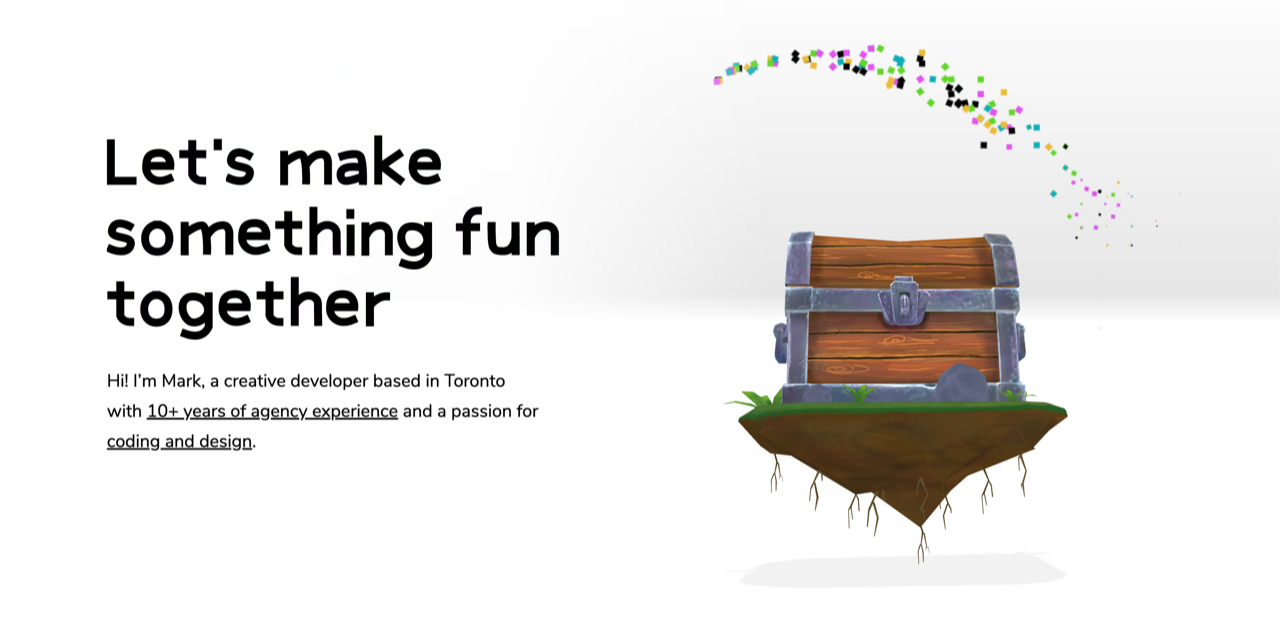
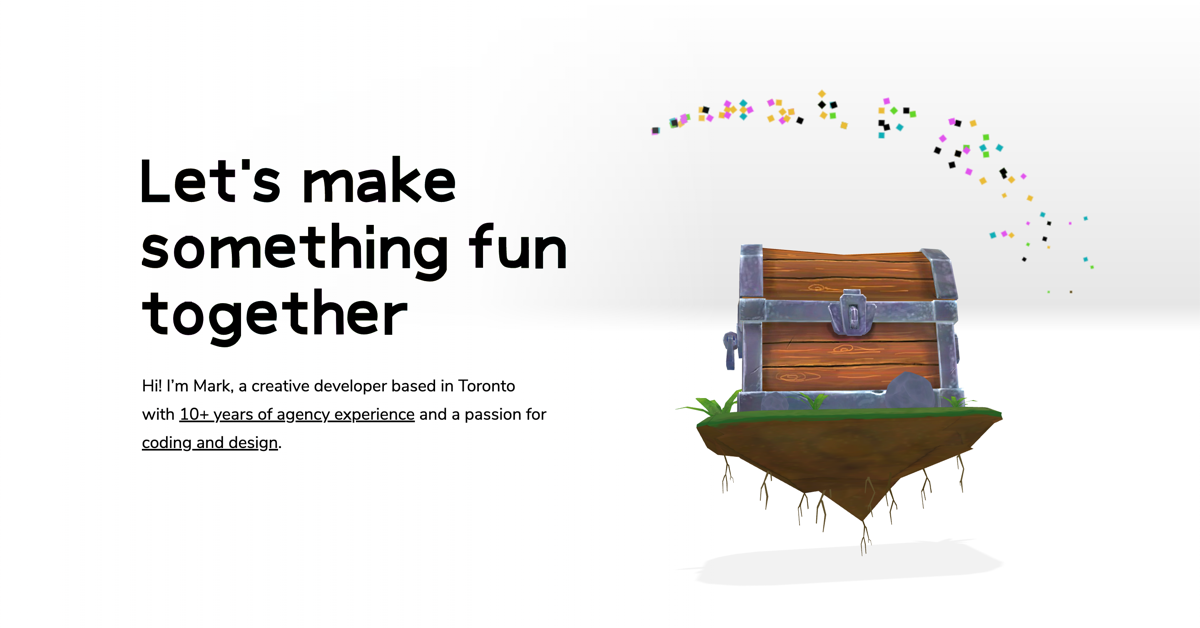
adjusted home-copy spacing and updated screenshot

diff --git a/dist/app.css b/dist/app.css
@@ -1,1 +1,1 @@
-*,:after,:before{box-sizing:border-box}img{max-width:100%}body,html{margin:0}body.scene--intro,body.scene--loading,html.scene--intro,html.scene--loading{overflow:hidden}.container{max-width:1150px;padding:0 100px;margin:0 auto}@media (max-width:768px){.container{padding:0 60px}}@media (max-width:500px){.container{padding:0 35px}}.grid{display:flex;justify-content:space-between}.grid>:first-child{width:40%}.grid>:last-child{width:60%}@media (max-width:960px){.grid{flex-direction:column}.grid>:first-child,.grid>:last-child{width:100%}}.hide{display:none!important}body,p{font-family:Nunito Sans,sans-serif;font-size:20px;font-weight:400;line-height:34px}@media (max-width:600px){body,p{font-size:16px;line-height:28px}}p{margin-bottom:0}a{text-decoration:underline;color:#000;transition:color .1s ease-in-out}a:hover{color:#1292ff}.badge-label,.h1,.h2,.h3,.h4,.h5,.h6,.hero-title,.home-title,h1,h2,h3,h4,h5,h6,p{margin-top:0}.h1,.hero-title,h1{font-size:300px;font-weight:900;line-height:0}@media (max-width:1150px){.h1,.hero-title,h1{font-size:200px}}@media (max-width:768px){.h1,.hero-title,h1{font-size:175px}}@media (max-width:550px){.h1,.hero-title,h1{font-size:120px}}@media (max-width:400px){.h1,.hero-title,h1{font-size:80px}}.h2,.home-title,h2{font-size:48px;font-weight:900;line-height:54px;margin-bottom:21px}.h3,h3{font-size:36px;font-weight:800;line-height:44px;margin-bottom:21px}@media (max-width:768px){.h3,h3{display:block;font-size:28px;line-height:37px}}@media (max-width:500px){.h3,h3{font-size:24px;line-height:32px}}.badge-label,.h4,h4{font-size:12px;font-weight:400;letter-spacing:2.86px;text-transform:uppercase;margin-bottom:-5px}@media (max-width:768px){.badge-label,.h4,h4{display:block;font-size:10px;letter-spacing:2.38px}}.ecobee .hero{display:flex}.ecobee .hero-chest{position:relative;transform:translateY(-50%);left:0;z-index:3;width:50%}.ecobee .hero-horizon{opacity:0}.home{width:50%;color:#000;align-items:center;z-index:2}.home,.home-wrapper{display:flex;position:relative}.home-wrapper{max-width:1400px;padding:0 100px;margin:0 auto}.home-overlay{width:100%;height:100%;background-image:linear-gradient(90deg,#fff 5%,hsla(0,0%,100%,.9) 40%,hsla(0,0%,100%,0) 60%,hsla(0,0%,100%,0));position:absolute;top:0;left:0}.home-title{font-size:70px;line-height:0}.home-copy{position:relative;padding-bottom:60px;padding-right:50px}.home-text{opacity:0;max-width:490px}.home-logos-trigger{display:inline-block;user-select:none}.home-logos img{position:fixed;pointer-events:none;top:0;left:0;height:60px;margin-left:-30px;margin-top:-30px;opacity:0;z-index:3}@keyframes pulse{0%{transform:scaleX(1)}25%{transform:scale3d(1.05,1.05,1.05)}to{transform:scaleX(1)}}.pulse{animation-duration:.2s;-webkit-animation-fill-mode:both;animation-fill-mode:both;animation-name:pulse}.motext{line-height:0}.motext-word{margin-right:.3em;margin-bottom:.3em}.motext-letter--L{margin-right:.02em}@media (max-width:1250px){.home-title{font-size:50px}}@media (max-width:1000px){.ecobee .hero-horizon{height:30%}.ecobee .hero-chest{width:100%;height:60%;position:absolute;top:0;left:0;transform:translateY(-5%)!important}.home-wrapper{flex-direction:column-reverse;align-items:flex-end}.home{width:100%;padding-bottom:100px}.home-copy{padding:0;max-width:700px;text-align:center}.home-copy,.home-text{margin:0 auto}.home-overlay{display:none}}@media (max-width:600px){.home-title{font-size:38px}.home-text{font-size:16px;line-height:24px}.home-wrapper{padding:0}.home{padding:0 40px 100px}}@media (max-width:400px){.home-title{font-size:36px}.home{padding:0 40px 100px}}@media (max-width:320px) and (max-height:568px){.home{padding:0 40px 80px}.home-title{font-size:24px}.home-text{font-size:13px}}.hero{width:100%;height:100vh;position:relative;z-index:2;overflow:hidden}.hero-title{top:35%;transform:translate(-50%,-50%);text-align:center;user-select:none}.hero-particles,.hero-title{position:absolute;left:50%;width:100%}.hero-particles{top:0;transform:translateX(-50%);height:100%}.hero-chest{width:100vw;height:100%;position:absolute;top:50%;left:50%;transform:translate(-50%,-50%);display:flex;align-items:center}.hero-chestCanvas{width:100%!important;height:100%!important;max-height:1000px}@media (max-width:1325px){.hero-chestCanvas{max-height:700px}}.hero-target{position:absolute;top:50%;left:50%;transform:translate(-50%,-50%);height:30%;z-index:2;animation:key .3s infinite alternate}.hero-white{background-color:#fff;height:100vh}.hero-horizon,.hero-white{position:absolute;top:0;left:0;width:100%}.hero-horizon{background-image:linear-gradient(180deg,transparent 0,#000 92%,transparent);opacity:.1;height:50%}.hero-scroll{position:absolute;bottom:50px;left:50%;transform:translate(-50%);width:40px;animation:scroll 2s ease-in-out 0s infinite alternate;cursor:pointer}@keyframes scroll{0%{transform:translate(-50%)}to{transform:translate(-50%,-30%)}}.hero-titleInner{display:block;line-height:normal;clip-path:polygon(0 70%,100% 40%,100% 100%,0 100%);transform:translateY(-25px) skew(0,-4deg);opacity:0;transition:opacity 1s ease-out,transform 1.5s ease-out,clip-path 2s ease-out}.hero-titleInner:last-child{transition-delay:.2s}.hero-title--intro .hero-titleInner{transform:translateY(0) skew(0,0);opacity:1;clip-path:polygon(0 0,100% 0,100% 100%,0 100%)}@media (max-width:1000px){.hero-chest{height:60%}}@media (max-width:768px){.hero-scroll{bottom:80px}}@keyframes key{0%{cursor:url(/assets/key-1.png) 0 0,pointer}25%{cursor:url(/assets/key-2.png) 0 0,pointer}50%{cursor:url(/assets/key-3.png) 0 0,pointer}75%{cursor:url(/assets/key-4.png) 0 0,pointer}to{cursor:url(/assets/key-5.png) 0 0,pointer}}.project-intro{max-width:385px;position:relative;z-index:2}.project-logo{margin-bottom:36px}.project-preview{margin-top:150px;padding-left:50px;position:relative}@media (max-width:960px){.project-preview{margin-top:80px;padding-left:0}}@media (max-width:500px){.project-preview{margin-top:60px}}.project-previewFrame{overflow:hidden;border-width:4px;border-style:solid;background-color:#fff;box-shadow:0 0 100px hsla(0,0%,100%,.8);transform:perspective(1000px) rotateY(10deg);margin:0 auto;position:relative;z-index:2}@media (max-width:960px){.project-previewFrame{max-width:510px;transform:none}}.project-previewFrame img{position:absolute;top:0;left:0;width:100%}.project-previewFrame:before{content:"";display:block;padding-top:65%}.project-previewBackground{content:"";display:block;position:absolute;top:50%;left:50%;transform:translate(-50%,-50%) scale(1.1);width:1000px;height:600px;background-size:cover;background-position:50%;opacity:0;z-index:1;filter:blur(3px)}@media (max-width:960px){.project-previewBackground{transform:translate(-50%,-50%) scale(.7);opacity:1}}.project-previewItem{position:absolute;bottom:0;left:0;z-index:3}@media (max-width:960px){.project-previewItem{display:none}}.card{background:#fff;color:#000;display:flex;box-shadow:0 0 120px rgba(0,0,0,.2);overflow:hidden;position:relative;z-index:2}.card-imageWrapper{position:relative;width:34%}.card-image{position:absolute;top:0;left:0;width:100%;height:100%;object-fit:cover;object-position:center center}.card-content{padding:90px 135px;width:66%}.card-item{margin-bottom:25px}.card-item a{text-decoration:none;animation:none}.card-item a:focus,.card-item a:hover{animation:rainbow 3s ease-in-out infinite alternate}@keyframes rainbow{0%{color:#000}10%{color:#0dafb7}40%{color:#eabc36}70%{color:#e154ed}to{color:#62d628}}.gradient-background{padding:200px 0;background-image:linear-gradient(180deg,hsla(0,0%,100%,0),#fff 90%)}@media (max-width:960px){.gradient-background{padding:100px 0}}@media (max-width:500px){.gradient-background{padding-top:60px}}@media (max-width:960px){.card{flex-direction:column-reverse}.card-imageWrapper{display:none}.card-content{padding:40px;width:100%}}@media (max-width:500px){.card-content{padding:20px 30px}.card-item{margin-bottom:0}}.badges-wrapper{height:166px;position:absolute;top:0;left:0;width:100%;z-index:2;pointer-events:none}.badges{list-style-type:none;margin:0;padding:40px 0;text-align:center}.badges .badge{width:100px;height:75px;display:inline-block;margin:0;position:relative}.badge-label{color:#000;position:absolute;top:100%;left:50%;white-space:nowrap;font-size:9px;line-height:16px;transform:translate(-50%,5px);opacity:0}.section{color:#fff;overflow:hidden}.section-content{position:relative;z-index:5}.section.ecobee{background-color:#5dbe7b}.section.ecobee .hero-target{display:none}.section.ecobee .hero-title{color:#eeff97}.section.ecobee .hero-scroll{fill:#eeff97}.section.ecobee .project-previewBackground{background-image:url(/assets/ecobee-background.png)}.section.ecobee .project-previewFrame{border-color:#42a661}.section.ecobee .project-previewItem{bottom:40px;left:0}.section.audi{background-color:#91251e}.section.audi .hero-title{color:#ffe0c2}.section.audi .hero-scroll{fill:#ffe0c2}.section.audi .project-previewBackground{background-image:url(/assets/audi-background.png)}.section.audi .project-previewFrame{border-color:#671a15}.section.audi .project-previewItem{bottom:20px;left:-20px;width:240px}.section.worldvision{background-color:#2b6596}.section.worldvision .hero-title{color:#5abed7;font-size:260px;line-height:220px}@media (max-width:960px){.section.worldvision .hero-title{font-size:200px;line-height:180px}}@media (max-width:700px){.section.worldvision .hero-title{font-size:160px;line-height:150px}}@media (max-width:550px){.section.worldvision .hero-title{font-size:120px;line-height:110px}}.section.worldvision .hero-titleInner{line-height:inherit}.section.worldvision .hero-scroll{fill:#5abed7}.section.worldvision .project-previewBackground{background-image:url(/assets/worldvision-background.png)}.section.worldvision .project-previewFrame{border-color:#204a6e}.section.worldvision .project-previewItem{bottom:0;left:-20px;width:196px}.section.contact{background-color:#ddaf40}.section.contact .hero-title{color:#fff264}.section.contact .hero-scroll{fill:#fff264}@media (max-width:960px){.section.contact .card-image{object-position:top center}}.section.contact .card-drawing{position:absolute;top:0;left:0;width:100%;height:100%;cursor:url(/assets/marker.png) 0 0,pointer}.button{margin-top:50px;font-size:25px;font-weight:800;text-decoration:none;display:inline-block;padding:25px 60px;color:#fff;background-image:linear-gradient(90deg,#5fbe7e 0,#5fbe7e 33%,#0dafb7 66%,#0dafb7);background-size:300%;border-radius:100px;box-shadow:0 0 24px rgba(0,0,0,.1);transition:padding .2s ease-in-out,transform .2s ease-in-out,background-position .75s ease-in-out}.button:focus,.button:hover{color:#fff;background-position:100%;transform:scale(1.03) translateX(-5px);padding:25px 65px}.button:focus .hand,.button:hover .hand{transform:rotate(20deg) scale(1.2) translateX(3px)}.button:focus .hand-inner,.button:hover .hand-inner{animation:wave .75s ease-in-out 0s infinite alternate}.button .hand{transform:rotate(20deg);transition:transform .2s ease-in-out;display:inline-block}.button .hand-inner{display:inline-block;transform:rotate(-20deg)}@keyframes wave{0%{transform:rotate(-20deg)}to{transform:rotate(20deg)}}@media (max-width:500px){.button{font-size:20px;padding:20px 40px;display:block;text-align:center}}.footer{margin:50px 20px}.footer-logo{margin:0 auto;max-width:66px}.footer-name{text-align:center}.contact .gradient-background{margin-top:0;padding-top:20px}@media (max-width:960px){.contact .card{flex-direction:column}.contact .card-imageWrapper{width:100%;display:block}.contact .card-image{height:auto;max-height:350px;position:relative}}@media (max-width:500px){.contact .card-content{padding:40px!important}.contact .card-image{max-height:230px}}.password{position:fixed;z-index:9999999;top:0;left:0;width:100vw;height:100vh;background:#fff;align-items:center;justify-content:center;flex-direction:column;display:none}.password label{display:block;margin-bottom:16px}.password input{font-size:18px;padding:10px;width:300px;text-align:center;border:1px solid #000;border-radius:3px}.password input[type=submit]{visibility:hidden}.js-focus-visible :focus:not(.focus-visible),:focus{outline:none}.focusRing{position:fixed;transition:all .2s ease-in-out;z-index:999999;top:0;left:0;transform:translate3d(50vw,50vh,0) scale(0);border:20px solid #000;border-radius:30px;animation:rainbowOutline 3s ease-in-out infinite alternate;opacity:0;pointer-events:none}.focusRing--show{opacity:.8}.focusRing--instant{transition:none}@keyframes rainbowOutline{0%{border-color:#000}10%{border-color:#0dafb7}40%{border-color:#eabc36}70%{border-color:#e154ed}to{border-color:#62d628}}
+*,:after,:before{box-sizing:border-box}img{max-width:100%}body,html{margin:0}body.scene--intro,body.scene--loading,html.scene--intro,html.scene--loading{overflow:hidden}.container{max-width:1150px;padding:0 100px;margin:0 auto}@media (max-width:768px){.container{padding:0 60px}}@media (max-width:500px){.container{padding:0 35px}}.grid{display:flex;justify-content:space-between}.grid>:first-child{width:40%}.grid>:last-child{width:60%}@media (max-width:960px){.grid{flex-direction:column}.grid>:first-child,.grid>:last-child{width:100%}}.hide{display:none!important}body,p{font-family:Nunito Sans,sans-serif;font-size:20px;font-weight:400;line-height:34px}@media (max-width:600px){body,p{font-size:16px;line-height:28px}}p{margin-bottom:0}a{text-decoration:underline;color:#000;transition:color .1s ease-in-out}a:hover{color:#1292ff}.badge-label,.h1,.h2,.h3,.h4,.h5,.h6,.hero-title,.home-title,h1,h2,h3,h4,h5,h6,p{margin-top:0}.h1,.hero-title,h1{font-size:300px;font-weight:900;line-height:0}@media (max-width:1150px){.h1,.hero-title,h1{font-size:200px}}@media (max-width:768px){.h1,.hero-title,h1{font-size:175px}}@media (max-width:550px){.h1,.hero-title,h1{font-size:120px}}@media (max-width:400px){.h1,.hero-title,h1{font-size:80px}}.h2,.home-title,h2{font-size:48px;font-weight:900;line-height:54px;margin-bottom:21px}.h3,h3{font-size:36px;font-weight:800;line-height:44px;margin-bottom:21px}@media (max-width:768px){.h3,h3{display:block;font-size:28px;line-height:37px}}@media (max-width:500px){.h3,h3{font-size:24px;line-height:32px}}.badge-label,.h4,h4{font-size:12px;font-weight:400;letter-spacing:2.86px;text-transform:uppercase;margin-bottom:-5px}@media (max-width:768px){.badge-label,.h4,h4{display:block;font-size:10px;letter-spacing:2.38px}}.ecobee .hero{display:flex}.ecobee .hero-chest{position:relative;transform:translateY(-50%);left:0;z-index:3;width:50%}.ecobee .hero-horizon{opacity:0}.home{width:50%;color:#000;align-items:center;z-index:2}.home,.home-wrapper{display:flex;position:relative}.home-wrapper{max-width:1400px;padding:0 100px;margin:0 auto}.home-overlay{width:100%;height:100%;background-image:linear-gradient(90deg,#fff 5%,hsla(0,0%,100%,.9) 40%,hsla(0,0%,100%,0) 60%,hsla(0,0%,100%,0));position:absolute;top:0;left:0}.home-title{font-size:70px;line-height:0}.home-copy{position:relative;padding-bottom:60px;padding-left:50px}.home-text{opacity:0;max-width:490px}.home-logos-trigger{display:inline-block;user-select:none}.home-logos img{position:fixed;pointer-events:none;top:0;left:0;height:60px;margin-left:-30px;margin-top:-30px;opacity:0;z-index:3}@keyframes pulse{0%{transform:scaleX(1)}25%{transform:scale3d(1.05,1.05,1.05)}to{transform:scaleX(1)}}.pulse{animation-duration:.2s;-webkit-animation-fill-mode:both;animation-fill-mode:both;animation-name:pulse}.motext{line-height:0}.motext-word{margin-right:.3em;margin-bottom:.3em}.motext-letter--L{margin-right:.02em}@media (max-width:1250px){.home-title{font-size:50px}}@media (max-width:1000px){.ecobee .hero-horizon{height:30%}.ecobee .hero-chest{width:100%;height:60%;position:absolute;top:0;left:0;transform:translateY(-5%)!important}.home-wrapper{flex-direction:column-reverse;align-items:flex-end}.home{width:100%;padding-bottom:100px}.home-copy{padding:0;max-width:700px;text-align:center}.home-copy,.home-text{margin:0 auto}.home-overlay{display:none}}@media (max-width:600px){.home-title{font-size:38px}.home-text{font-size:16px;line-height:24px}.home-wrapper{padding:0}.home{padding:0 40px 100px}}@media (max-width:400px){.home-title{font-size:36px}.home{padding:0 40px 100px}}@media (max-width:320px) and (max-height:568px){.home{padding:0 40px 80px}.home-title{font-size:24px}.home-text{font-size:13px}}.hero{width:100%;height:100vh;position:relative;z-index:2;overflow:hidden}.hero-title{top:35%;transform:translate(-50%,-50%);text-align:center;user-select:none}.hero-particles,.hero-title{position:absolute;left:50%;width:100%}.hero-particles{top:0;transform:translateX(-50%);height:100%}.hero-chest{width:100vw;height:100%;position:absolute;top:50%;left:50%;transform:translate(-50%,-50%);display:flex;align-items:center}.hero-chestCanvas{width:100%!important;height:100%!important;max-height:1000px}@media (max-width:1325px){.hero-chestCanvas{max-height:700px}}.hero-target{position:absolute;top:50%;left:50%;transform:translate(-50%,-50%);height:30%;z-index:2;animation:key .3s infinite alternate}.hero-white{background-color:#fff;height:100vh}.hero-horizon,.hero-white{position:absolute;top:0;left:0;width:100%}.hero-horizon{background-image:linear-gradient(180deg,transparent 0,#000 92%,transparent);opacity:.1;height:50%}.hero-scroll{position:absolute;bottom:50px;left:50%;transform:translate(-50%);width:40px;animation:scroll 2s ease-in-out 0s infinite alternate;cursor:pointer}@keyframes scroll{0%{transform:translate(-50%)}to{transform:translate(-50%,-30%)}}.hero-titleInner{display:block;line-height:normal;clip-path:polygon(0 70%,100% 40%,100% 100%,0 100%);transform:translateY(-25px) skew(0,-4deg);opacity:0;transition:opacity 1s ease-out,transform 1.5s ease-out,clip-path 2s ease-out}.hero-titleInner:last-child{transition-delay:.2s}.hero-title--intro .hero-titleInner{transform:translateY(0) skew(0,0);opacity:1;clip-path:polygon(0 0,100% 0,100% 100%,0 100%)}@media (max-width:1000px){.hero-chest{height:60%}}@media (max-width:768px){.hero-scroll{bottom:80px}}@keyframes key{0%{cursor:url(/assets/key-1.png) 0 0,pointer}25%{cursor:url(/assets/key-2.png) 0 0,pointer}50%{cursor:url(/assets/key-3.png) 0 0,pointer}75%{cursor:url(/assets/key-4.png) 0 0,pointer}to{cursor:url(/assets/key-5.png) 0 0,pointer}}.project-intro{max-width:385px;position:relative;z-index:2}.project-logo{margin-bottom:36px}.project-preview{margin-top:150px;padding-left:50px;position:relative}@media (max-width:960px){.project-preview{margin-top:80px;padding-left:0}}@media (max-width:500px){.project-preview{margin-top:60px}}.project-previewFrame{overflow:hidden;border-width:4px;border-style:solid;background-color:#fff;box-shadow:0 0 100px hsla(0,0%,100%,.8);transform:perspective(1000px) rotateY(10deg);margin:0 auto;position:relative;z-index:2}@media (max-width:960px){.project-previewFrame{max-width:510px;transform:none}}.project-previewFrame img{position:absolute;top:0;left:0;width:100%}.project-previewFrame:before{content:"";display:block;padding-top:65%}.project-previewBackground{content:"";display:block;position:absolute;top:50%;left:50%;transform:translate(-50%,-50%) scale(1.1);width:1000px;height:600px;background-size:cover;background-position:50%;opacity:0;z-index:1;filter:blur(3px)}@media (max-width:960px){.project-previewBackground{transform:translate(-50%,-50%) scale(.7);opacity:1}}.project-previewItem{position:absolute;bottom:0;left:0;z-index:3}@media (max-width:960px){.project-previewItem{display:none}}.card{background:#fff;color:#000;display:flex;box-shadow:0 0 120px rgba(0,0,0,.2);overflow:hidden;position:relative;z-index:2}.card-imageWrapper{position:relative;width:34%}.card-image{position:absolute;top:0;left:0;width:100%;height:100%;object-fit:cover;object-position:center center}.card-content{padding:90px 135px;width:66%}.card-item{margin-bottom:25px}.card-item a{text-decoration:none;animation:none}.card-item a:focus,.card-item a:hover{animation:rainbow 3s ease-in-out infinite alternate}@keyframes rainbow{0%{color:#000}10%{color:#0dafb7}40%{color:#eabc36}70%{color:#e154ed}to{color:#62d628}}.gradient-background{padding:200px 0;background-image:linear-gradient(180deg,hsla(0,0%,100%,0),#fff 90%)}@media (max-width:960px){.gradient-background{padding:100px 0}}@media (max-width:500px){.gradient-background{padding-top:60px}}@media (max-width:960px){.card{flex-direction:column-reverse}.card-imageWrapper{display:none}.card-content{padding:40px;width:100%}}@media (max-width:500px){.card-content{padding:20px 30px}.card-item{margin-bottom:0}}.badges-wrapper{height:166px;position:absolute;top:0;left:0;width:100%;z-index:2;pointer-events:none}.badges{list-style-type:none;margin:0;padding:40px 0;text-align:center}.badges .badge{width:100px;height:75px;display:inline-block;margin:0;position:relative}.badge-label{color:#000;position:absolute;top:100%;left:50%;white-space:nowrap;font-size:9px;line-height:16px;transform:translate(-50%,5px);opacity:0}.section{color:#fff;overflow:hidden}.section-content{position:relative;z-index:5}.section.ecobee{background-color:#5dbe7b}.section.ecobee .hero-target{display:none}.section.ecobee .hero-title{color:#eeff97}.section.ecobee .hero-scroll{fill:#eeff97}.section.ecobee .project-previewBackground{background-image:url(/assets/ecobee-background.png)}.section.ecobee .project-previewFrame{border-color:#42a661}.section.ecobee .project-previewItem{bottom:40px;left:0}.section.audi{background-color:#91251e}.section.audi .hero-title{color:#ffe0c2}.section.audi .hero-scroll{fill:#ffe0c2}.section.audi .project-previewBackground{background-image:url(/assets/audi-background.png)}.section.audi .project-previewFrame{border-color:#671a15}.section.audi .project-previewItem{bottom:20px;left:-20px;width:240px}.section.worldvision{background-color:#2b6596}.section.worldvision .hero-title{color:#5abed7;font-size:260px;line-height:220px}@media (max-width:960px){.section.worldvision .hero-title{font-size:200px;line-height:180px}}@media (max-width:700px){.section.worldvision .hero-title{font-size:160px;line-height:150px}}@media (max-width:550px){.section.worldvision .hero-title{font-size:120px;line-height:110px}}.section.worldvision .hero-titleInner{line-height:inherit}.section.worldvision .hero-scroll{fill:#5abed7}.section.worldvision .project-previewBackground{background-image:url(/assets/worldvision-background.png)}.section.worldvision .project-previewFrame{border-color:#204a6e}.section.worldvision .project-previewItem{bottom:0;left:-20px;width:196px}.section.contact{background-color:#ddaf40}.section.contact .hero-title{color:#fff264}.section.contact .hero-scroll{fill:#fff264}@media (max-width:960px){.section.contact .card-image{object-position:top center}}.section.contact .card-drawing{position:absolute;top:0;left:0;width:100%;height:100%;cursor:url(/assets/marker.png) 0 0,pointer}.button{margin-top:50px;font-size:25px;font-weight:800;text-decoration:none;display:inline-block;padding:25px 60px;color:#fff;background-image:linear-gradient(90deg,#5fbe7e 0,#5fbe7e 33%,#0dafb7 66%,#0dafb7);background-size:300%;border-radius:100px;box-shadow:0 0 24px rgba(0,0,0,.1);transition:padding .2s ease-in-out,transform .2s ease-in-out,background-position .75s ease-in-out}.button:focus,.button:hover{color:#fff;background-position:100%;transform:scale(1.03) translateX(-5px);padding:25px 65px}.button:focus .hand,.button:hover .hand{transform:rotate(20deg) scale(1.2) translateX(3px)}.button:focus .hand-inner,.button:hover .hand-inner{animation:wave .75s ease-in-out 0s infinite alternate}.button .hand{transform:rotate(20deg);transition:transform .2s ease-in-out;display:inline-block}.button .hand-inner{display:inline-block;transform:rotate(-20deg)}@keyframes wave{0%{transform:rotate(-20deg)}to{transform:rotate(20deg)}}@media (max-width:500px){.button{font-size:20px;padding:20px 40px;display:block;text-align:center}}.footer{margin:50px 20px}.footer-logo{margin:0 auto;max-width:66px}.footer-name{text-align:center}.contact .gradient-background{margin-top:0;padding-top:20px}@media (max-width:960px){.contact .card{flex-direction:column}.contact .card-imageWrapper{width:100%;display:block}.contact .card-image{height:auto;max-height:350px;position:relative}}@media (max-width:500px){.contact .card-content{padding:40px!important}.contact .card-image{max-height:230px}}.password{position:fixed;z-index:9999999;top:0;left:0;width:100vw;height:100vh;background:#fff;align-items:center;justify-content:center;flex-direction:column;display:none}.password label{display:block;margin-bottom:16px}.password input{font-size:18px;padding:10px;width:300px;text-align:center;border:1px solid #000;border-radius:3px}.password input[type=submit]{visibility:hidden}.js-focus-visible :focus:not(.focus-visible),:focus{outline:none}.focusRing{position:fixed;transition:all .2s ease-in-out;z-index:999999;top:0;left:0;transform:translate3d(50vw,50vh,0) scale(0);border:20px solid #000;border-radius:30px;animation:rainbowOutline 3s ease-in-out infinite alternate;opacity:0;pointer-events:none}.focusRing--show{opacity:.8}.focusRing--instant{transition:none}@keyframes rainbowOutline{0%{border-color:#000}10%{border-color:#0dafb7}40%{border-color:#eabc36}70%{border-color:#e154ed}to{border-color:#62d628}}

diff --git a/src/styles/_home.scss b/src/styles/_home.scss
@@ -49,7 +49,7 @@
   &-copy {
     position: relative;
     padding-bottom: 60px;
-    padding-right: 50px;
+    padding-left: 50px;
   }
   &-text {
     opacity: 0; /* animated in by gsap */
